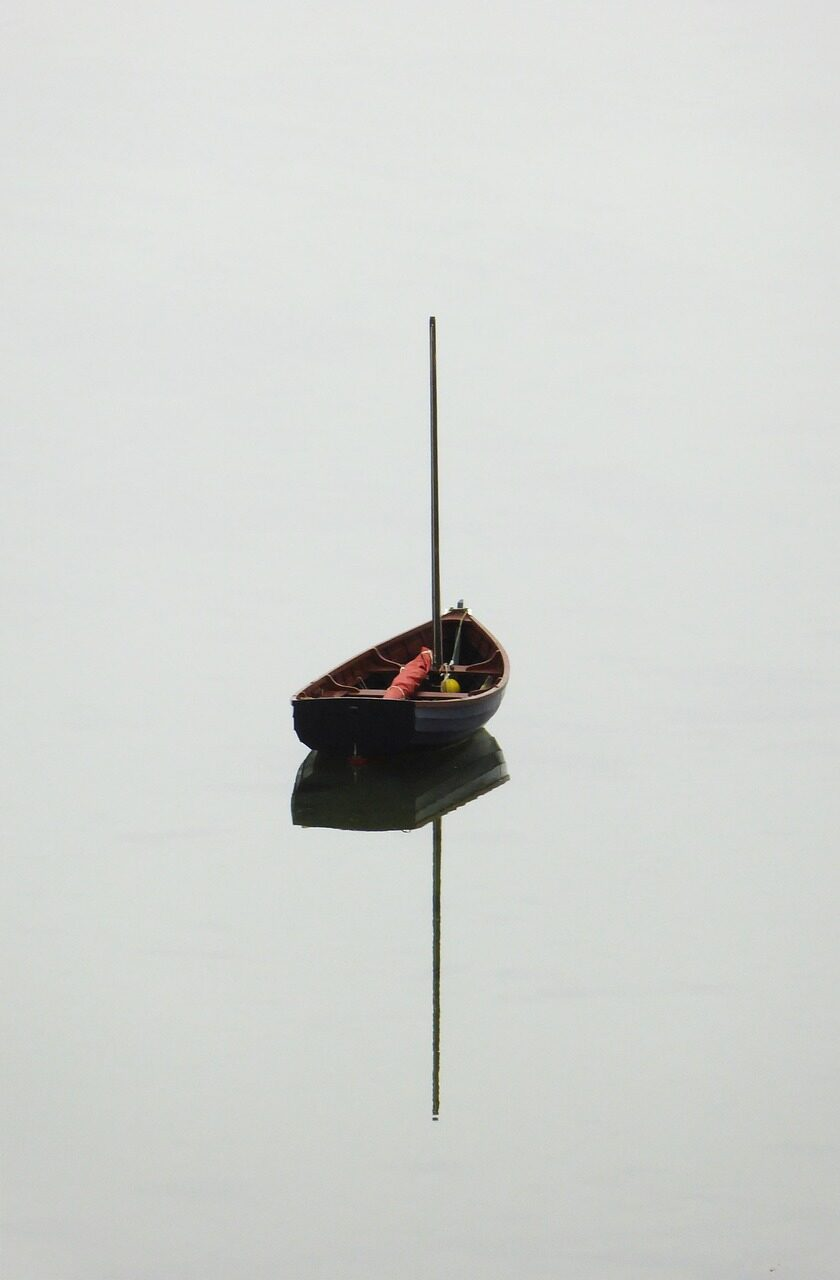
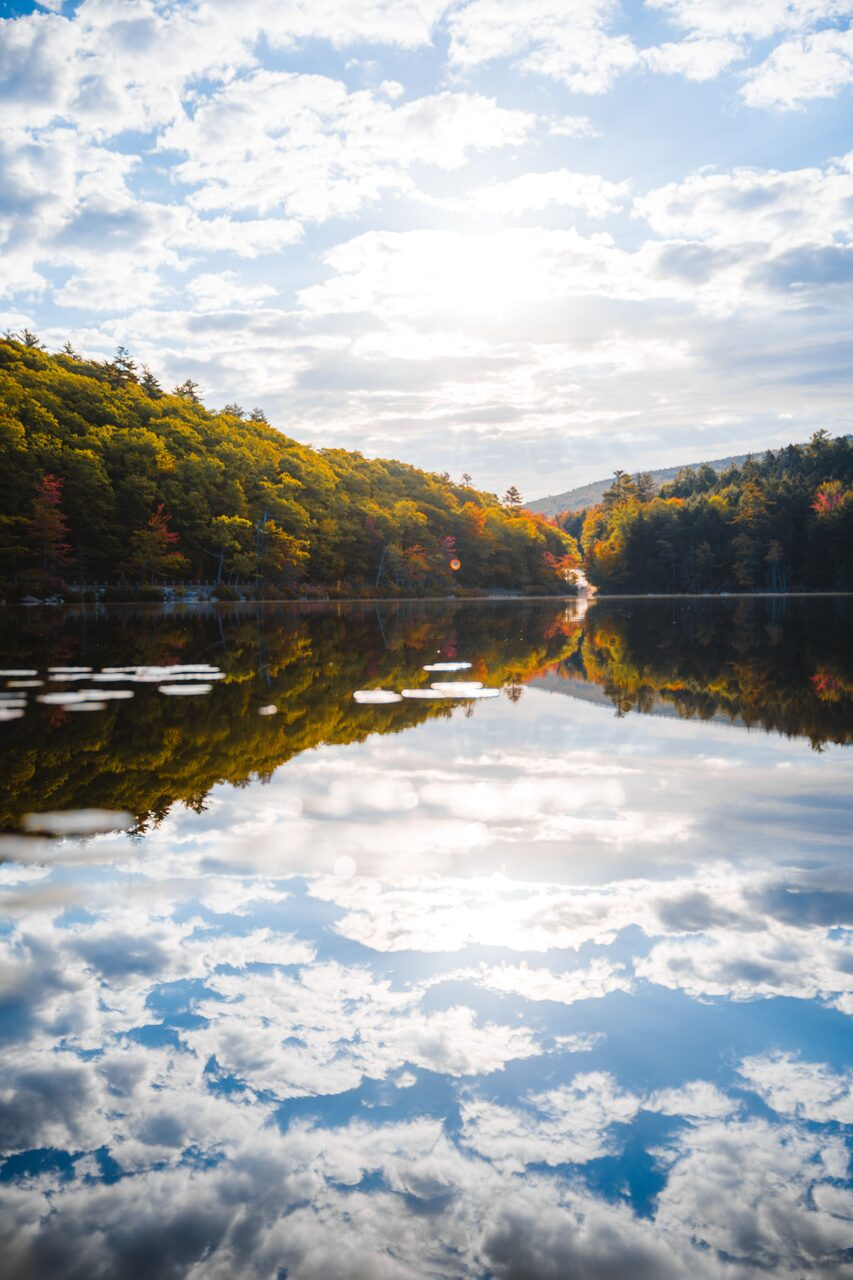
Quita nombres propios de todo el sitio público y reemplaza 3 fotos
El pedido era claro: quien visite la web debe ver un equipo detrás,
no a una persona en particular. Se saca "Paz" de todos los textos
visitor-facing (landing, intro y gracias del Mirror 2, y el label
público del login del panel) y se deja siempre en términos de rol
("nuestra psicóloga", "la psicóloga", "Psicóloga clínica"). El saludo
interno del panel después de loguearse (que sí es privado, para la
propia profesional) no se tocó.

Se reemplazan además 3 de las 5 fotos por las que trajo el usuario:
reflejo del lago (hero), manos (galería de confianza) y notas/sesión
(galería de confianza) — se mantienen café/conversación y camino al
amanecer, que el usuario confirmó que están bien.

Claude-Session: https://claude.ai/code/session_01TLgTX9amJzwV3LQrcXtVk4

diff --git a/app/templates/landing.html b/app/templates/landing.html
@@ -77,7 +77,7 @@
         <div class="numero">3</div>
         <h3>Tú decides el siguiente paso</h3>
         <p>Puedes quedarte con tus documentos, presentar tu propia denuncia en la DT, o pedir que te contactemos
-        con Paz (psicóloga) o con una abogada especializada en Ley Karin — <strong>nunca es obligatorio</strong>.</p>
+        con nuestra psicóloga o con una abogada especializada en Ley Karin — <strong>nunca es obligatorio</strong>.</p>
       </div>
     </div>
   </section>
@@ -123,7 +123,7 @@
       <div class="confianza-item">
         <div class="icono">🧑⚕</div>
         <div>
-          <h3>Paz — psicóloga clínica</h3>
+          <h3>Psicóloga clínica</h3>
           <p>Parte de nuestro equipo — <strong>valores a coordinar directamente con ella</strong>.</p>
         </div>
       </div>
@@ -156,7 +156,7 @@
     <div class="card-equipo">
       <h3>Un equipo real, no una IA actuando sola</h3>
       <p>Mirror está construido por un <strong>especialista en RR.HH. y operaciones</strong>, con el respaldo de
-      <strong>Paz, psicóloga clínica</strong>, y una <strong>abogada especializada en Ley Karin</strong>.</p>
+      una <strong>psicóloga clínica</strong> y una <strong>abogada especializada en Ley Karin</strong>.</p>
       <p class="marco">Nuestros documentos siguen el mismo marco que usan los psicólogos laborales en Chile
       (<strong>Cuestionario CEAL-SM/SUSESO</strong>) y el estándar legal real de prueba en tutela laboral
       (<strong>Art. 493 del Código del Trabajo</strong>).</p>
@@ -242,9 +242,9 @@
       </details>
       <details class="faq-item">
         <summary>¿Quién ve mis respuestas?</summary>
-        <p class="faq-respuesta"><strong>Solo nuestro equipo.</strong> Si pides derivación a Paz o a la abogada,
-        cada una ve únicamente el documento que le corresponde a su especialidad — nunca el resto sin tu
-        autorización.</p>
+        <p class="faq-respuesta"><strong>Solo nuestro equipo.</strong> Si pides derivación a la psicóloga o a la
+        abogada, cada una ve únicamente el documento que le corresponde a su especialidad — nunca el resto sin
+        tu autorización.</p>
       </details>
     </div>
   </section>

diff --git a/app/templates/mirror2_gracias.html b/app/templates/mirror2_gracias.html
@@ -36,7 +36,7 @@
   <form method="post" action="/mirror2/derivar/{{ m.id }}">
     <div class="opciones">
       {% if m.doc_psicologico %}
-      <label><input type="checkbox" name="quiere_paz" value="true"> Sí, quiero que Paz (psicóloga) vea mi
+      <label><input type="checkbox" name="quiere_paz" value="true"> Sí, quiero que nuestra psicóloga vea mi
       Discovery Psicológico y pueda contactarme.</label>
       {% endif %}
       {% if m.doc_legal %}
@@ -44,8 +44,8 @@
       Discovery Legal y pueda contactarme.</label>
       {% endif %}
     </div>
-    <p class="ayuda-campo">Paz y la abogada son profesionales independientes — cobran sus propios honorarios,
-    directamente contigo, fuera de esta plataforma.</p>
+    <p class="ayuda-campo">Nuestra psicóloga y la abogada son profesionales independientes — cobran sus propios
+    honorarios, directamente contigo, fuera de esta plataforma.</p>
     <button type="submit">Confirmar</button>
   </form>
 </div>

diff --git a/app/templates/mirror2_intro.html b/app/templates/mirror2_intro.html
@@ -20,8 +20,8 @@
 
   <div class="card">
     <h3>Al final, tú decides si quieres que te contactemos</h3>
-    <p>Con tus documentos listos, puedes pedir —si quieres, nunca es obligatorio— que te derivemos con Paz
-    (psicóloga) y/o con una abogada especializada en Ley Karin. Ellas cobran sus propios honorarios de forma
+    <p>Con tus documentos listos, puedes pedir —si quieres, nunca es obligatorio— que te derivemos con nuestra
+    psicóloga y/o con una abogada especializada en Ley Karin. Ellas cobran sus propios honorarios de forma
     independiente; nosotros solo les avisamos que hay un caso nuevo esperando en su panel, sin compartir el
     contenido sensible por correo.</p>
   </div>

diff --git a/app/templates/panel_login.html b/app/templates/panel_login.html
@@ -14,7 +14,7 @@
   <fieldset>
     <legend>¿Quién eres?</legend>
     <div class="opciones">
-      <label><input type="radio" name="profesional" value="paz" required> Paz (psicóloga)</label>
+      <label><input type="radio" name="profesional" value="paz" required> Psicóloga</label>
       <label><input type="radio" name="profesional" value="abogada" required> Abogada</label>
     </div>
   </fieldset>
